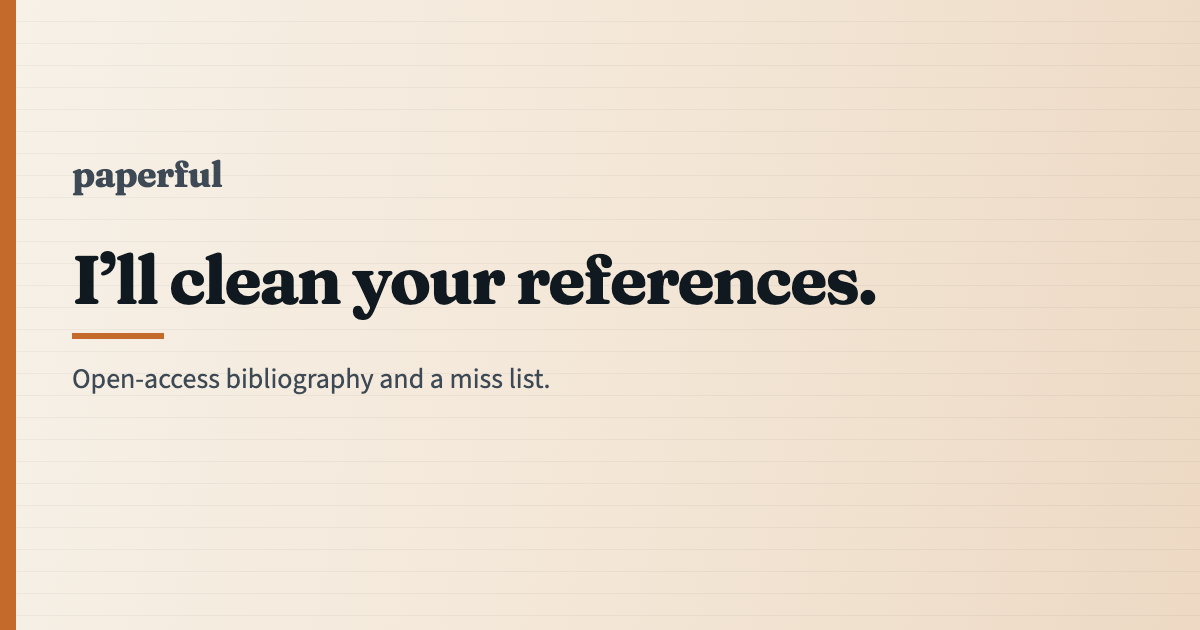
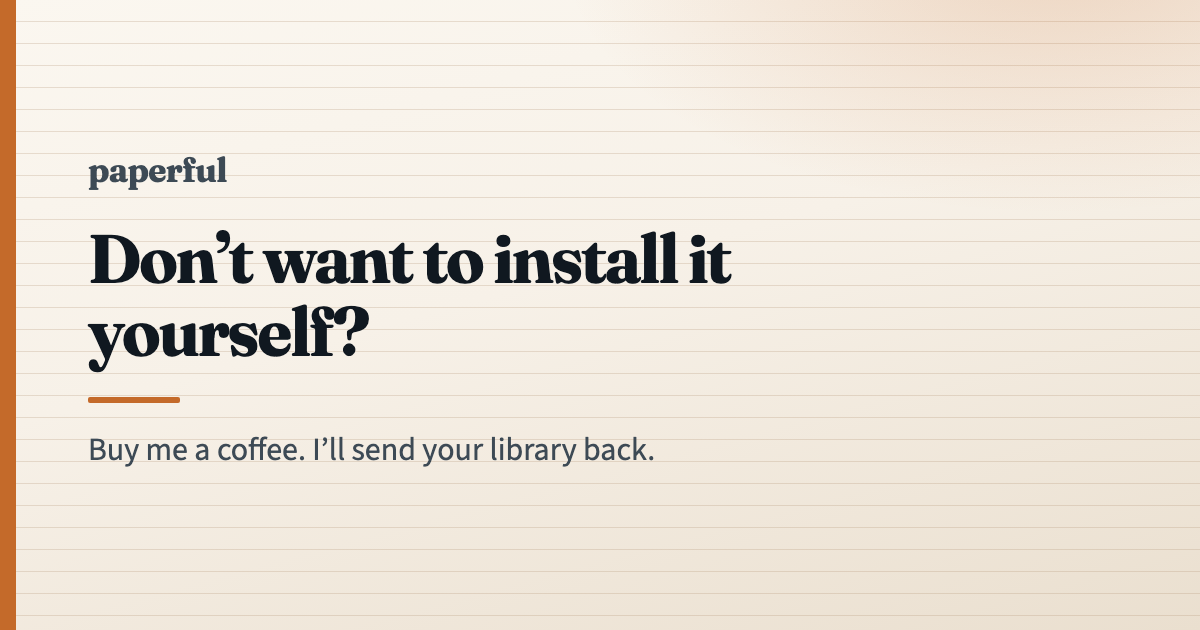
Update paperful.cloud copy to the coffee offer.
Drop the mail-invite door and ship the done-for-you coffee pitch.

diff --git a/index.html b/index.html
@@ -3,33 +3,33 @@
   <head>
     <meta charset="utf-8" />
     <meta name="viewport" content="width=device-width, initial-scale=1" />
-    <title>I’ll clean your references</title>
+    <title>Don’t want to install it yourself?</title>
     <meta
       name="description"
-      content="Open-access bibliography and a miss list. PDFs when the license allows and you keep the files."
+      content="Buy me a coffee and I’ll send you your library, all clean and shiny, full of PDFs."
     />
     <link rel="icon" href="favicon.ico" sizes="any" />
     <link rel="icon" href="favicon-32.png" type="image/png" sizes="32x32" />
     <link rel="canonical" href="https://paperful.cloud/" />
-    <meta property="og:title" content="I’ll clean your references" />
+    <meta property="og:title" content="Don’t want to install it yourself?" />
     <meta
       property="og:description"
-      content="Open-access bibliography and a miss list. PDFs when the license allows and you keep the files."
+      content="Buy me a coffee and I’ll send you your library, all clean and shiny, full of PDFs."
     />
     <meta property="og:image" content="https://paperful.cloud/og.png" />
     <meta property="og:image:width" content="1200" />
     <meta property="og:image:height" content="630" />
     <meta
       property="og:image:alt"
-      content="I’ll clean your references."
+      content="Don’t want to install it yourself? Buy me a coffee and I’ll send your library back."
     />
     <meta property="og:url" content="https://paperful.cloud/" />
     <meta property="og:type" content="website" />
     <meta name="twitter:card" content="summary_large_image" />
-    <meta name="twitter:title" content="I’ll clean your references" />
+    <meta name="twitter:title" content="Don’t want to install it yourself?" />
     <meta
       name="twitter:description"
-      content="Open-access bibliography and a miss list. PDFs when the license allows and you keep the files."
+      content="Buy me a coffee and I’ll send you your library, all clean and shiny, full of PDFs."
     />
     <meta name="twitter:image" content="https://paperful.cloud/og.png" />
     <link rel="preconnect" href="https://fonts.googleapis.com" />
@@ -138,23 +138,11 @@
         padding: 1.15rem 0 1.5rem;
       }
 
-      .offer {
-        margin: 0 0 1.15rem;
-        font-size: 1.125rem;
-        max-width: 40rem;
-      }
-
-      .doors {
-        display: grid;
-        grid-template-columns: 1fr 1fr;
-        gap: 0.85rem;
-        margin: 0 0 0.85rem;
-      }
-
       .door {
-        margin: 0;
+        margin: 0 0 0.85rem;
         padding: 0.95rem 1rem 1.05rem;
         border-radius: 0.4rem;
+        max-width: 36rem;
       }
 
       .door h2 {
@@ -175,23 +163,12 @@
 
       .door p {
         margin: 0;
-      }
-
-      .door-mail {
-        background: rgba(255, 255, 255, 0.45);
-        border: 1px solid var(--line);
+        font-size: 1.125rem;
       }
 
       .door-coffee {
         background: rgba(196, 106, 42, 0.12);
         border: 1px solid var(--accent);
-      }
-
-      .who {
-        margin: 0 0 0.35rem;
-        font-size: 0.95rem;
-        font-weight: 600;
-        color: var(--ink-soft);
       }
 
       .btn {
@@ -264,21 +241,12 @@
       }
 
       @media (max-width: 720px) {
-        .doors {
-          grid-template-columns: 1fr;
-          gap: 0.65rem;
-        }
-
         .spoken {
           padding-top: 0.7rem;
         }
 
         h1 {
           margin-bottom: 0.45rem;
-        }
-
-        .offer {
-          margin-bottom: 0.75rem;
         }
 
         .door {
@@ -298,39 +266,22 @@
     <main id="main">
       <div class="frame">
       <div class="spoken">
-        <h1>I’ll clean your references.</h1>
-        <p class="offer">
-          Open-access bibliography and a miss list. PDFs when the license
-          allows and you keep the files. I don’t host them. I don’t use
-          Sci-Hub. Never.
-        </p>
-
-        <div class="doors">
-          <article class="door door-mail">
-            <p class="who">If I wrote to you</p>
-            <h2>Reply to that mail</h2>
-            <p>
-              One collection, free. Bibliography and a miss list. Open access
-              only.
-            </p>
-          </article>
-          <article class="door door-coffee">
-            <p class="who">Everyone else</p>
-            <p>
-              Including someone this page or a bibliography was forwarded to.
-              A coffee. Same job. A coffee does not buy an exception.
-            </p>
-            <h2>
-              <a
-                class="btn"
-                href="https://ko-fi.com/C0C1XK8G"
-                target="_blank"
-                rel="noopener noreferrer"
-                >Clean a collection</a
-              >
-            </h2>
-          </article>
-        </div>
+        <h1>Don’t want to install and run it yourself?</h1>
+        <article class="door door-coffee">
+          <p>
+            Let me do it for you. Buy me a coffee and I’ll send you your
+            library, all clean and shiny, full of PDFs.
+          </p>
+          <h2>
+            <a
+              class="btn"
+              href="https://ko-fi.com/C0C1XK8G"
+              target="_blank"
+              rel="noopener noreferrer"
+              >Buy me a coffee</a
+            >
+          </h2>
+        </article>
 
         <p class="tool-line">
           If you will install it yourself, the tool is the open-source page:
@@ -341,39 +292,30 @@
       </div>
 
       <section class="after">
-        <h2>What I send back</h2>
+        <h2>What you get back</h2>
         <p>
-          You already have the pile. I run the fill. You get a bibliography
-          and a miss list back, in the reference manager you already use.
-          RIS, BibTeX, CSV, EndNote XML, and <code>misses.csv</code>. Zotero
-          is the one that is well tested. Mendeley and EndNote adapters are
+          Your library, in the reference manager you already use. RIS,
+          BibTeX, CSV, or EndNote XML, the PDFs, and
+          <code>misses.csv</code> for anything I could not fetch. Zotero is
+          the one that is well tested. Mendeley and EndNote adapters are
           seeking testers.
         </p>
         <p>
-          The miss list is the product. A miss is one of these:
-          <code>no_doi</code>, <code>paywalled</code>, <code>no_oa</code>,
-          <code>fetch_failed</code>, <code>license_blocked</code>.
+          The PDFs are the open-access copies the license lets you keep. You
+          already have somewhere to put them: a zip you will store, or a
+          WebDAV URL you already have. I hand that over. I do not host the
+          library. If the terms do not allow the file, that item stays on the
+          miss list and you get the link.
         </p>
         <p>
-          PDFs are an add-on, and both of these have to be true. You already
-          have somewhere to put the files — a zip you will store, or a WebDAV
-          URL you already have. And the license lets you keep a copy. Open
-          access is not permission for me to hand the file over. If the terms
-          do not allow the copy, you get the link and fetch it yourself. Any
-          file that leaves keeps its provenance (<code>paperful oa:…</code>).
-          I will not put a Sci-Hub stamp on anything I send you.
+          A miss is one of these: <code>no_doi</code>, <code>paywalled</code>,
+          <code>no_oa</code>, <code>fetch_failed</code>,
+          <code>license_blocked</code>.
         </p>
         <p>
-          You keep Zotero. You hold the disk. I run the commands and hand
-          over a zip or a folder. I do not host your library, your PDFs, or a
-          Zotero server.
-        </p>
-        <p>
-          For a job I do for someone else, the sources are open-access
-          indexes only: Unpaywall, OpenAlex, arXiv, bioRxiv/medRxiv, Europe
-          PMC, Semantic Scholar, CORE, and the item’s own URL. Campus access
-          is your library card, on your machine. Grey literature and policy
-          packs are not part of this.
+          I only pull from open-access indexes: Unpaywall, OpenAlex, arXiv,
+          bioRxiv/medRxiv, Europe PMC, Semantic Scholar, CORE, and the item’s
+          own URL. Your campus login stays on your machine.
         </p>
         <p>
           A full Zotero quota is a normal result. Citation data sync is
@@ -384,7 +326,7 @@
           third-party WebDAV server.
         </p>
         <p class="receipt">
-          If a grant line needs a receipt, say so in the reply.
+          If a grant line needs a receipt, say so when you buy the coffee.
         </p>
       </section>
       </div>
